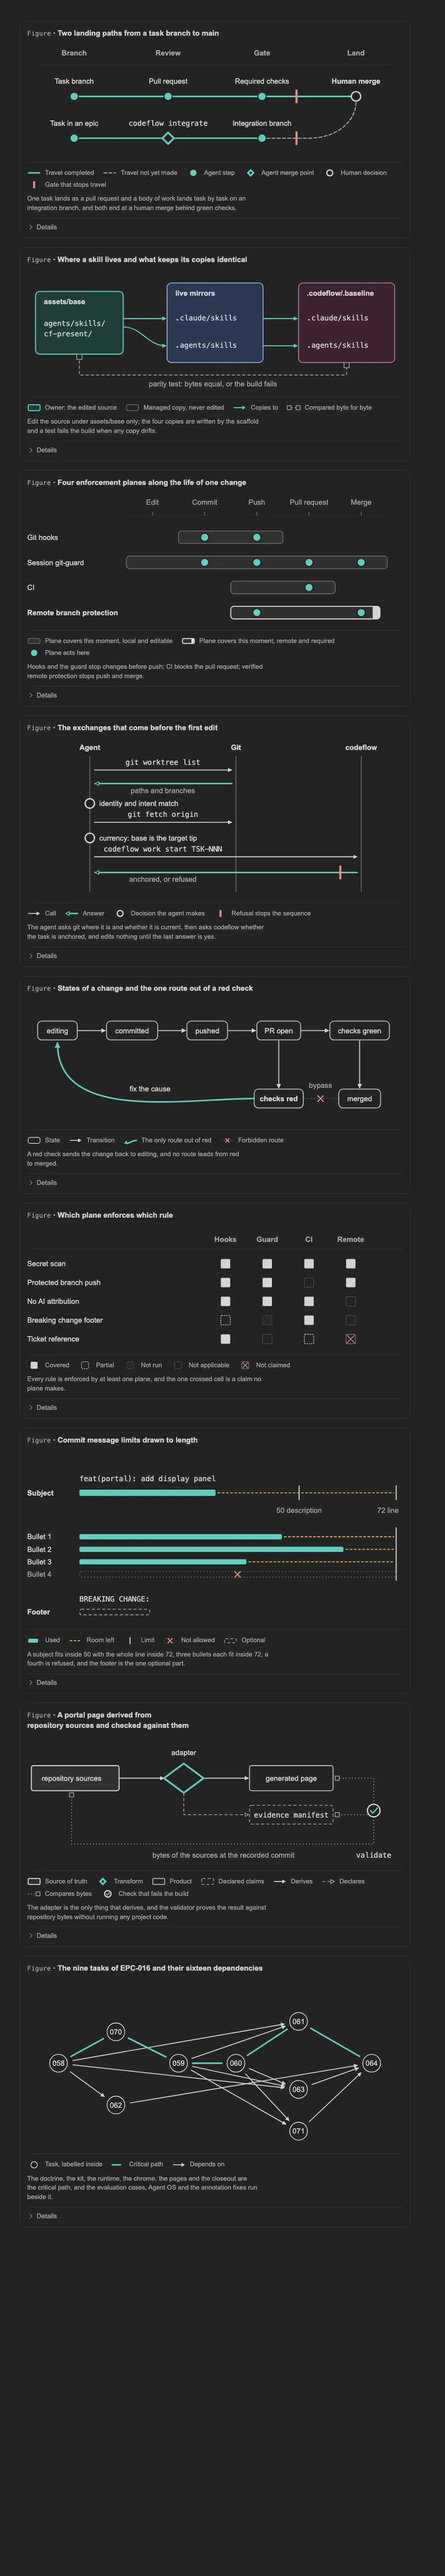
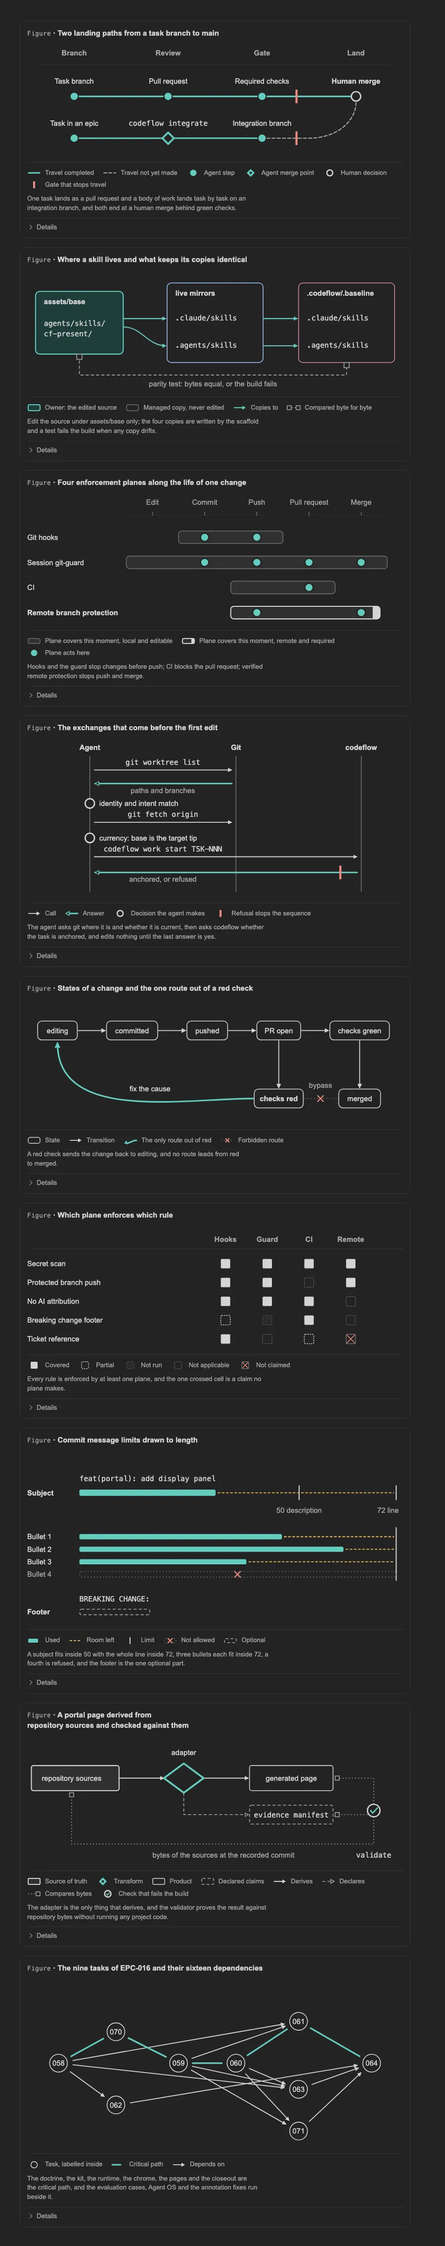
docs(present): keep two channels in the specimen
- copy regions are unfilled outlines again, toned by hue only
- renders recaptured after every figure drew, light and dark

diff --git a/.agents/skills/cf-docs-portal/resources/figure-grammar-specimens.md b/.agents/skills/cf-docs-portal/resources/figure-grammar-specimens.md
@@ -22,8 +22,9 @@ Each specimen follows `figure-grammar.md`, "Composing a figure": its title
 is a name, its caption one sentence stating its claim, and a specimen with
 a governing path draws it in the accent-bearing marks, grey for context. The
 structure specimen also shows the companion tones: the owner region carries
-the accent, and the live and baseline regions, two named peers, carry
-`cat1` and `cat2`.
+the accent on a filled region, and the live and baseline regions, two
+named peers, carry `cat1` and `cat2` on unfilled outlines, so owner and copy
+still differ in fill and in stroke width without their hue.
 
 Each specimen ends with its chat form: the same facts drawn as a fenced
 ASCII figure for plain-text chat and a README, with one legend line and one
@@ -125,7 +126,7 @@ figure:
 <text x="32" y="64" font-weight="600">assets/base</text>
 <text x="32" y="106" font-family="var(--cf-fig-mono)" font-weight="400">agents/skills/</text>
 <text x="32" y="126" font-family="var(--cf-fig-mono)" font-weight="400">cf-present/</text>
-<g data-state="copy" stroke-width="1.5"><rect x="268" y="24" width="184" height="152" rx="8" fill="var(--cf-fig-cat1-soft)" stroke="var(--cf-fig-cat1)"/><rect x="520" y="24" width="184" height="152" rx="8" fill="var(--cf-fig-cat2-soft)" stroke="var(--cf-fig-cat2)"/></g>
+<g data-state="copy" fill="none" stroke-width="1.5"><rect x="268" y="24" width="184" height="152" rx="8" stroke="var(--cf-fig-cat1)"/><rect x="520" y="24" width="184" height="152" rx="8" stroke="var(--cf-fig-cat2)"/></g>
 <text x="284" y="48" font-weight="600">live mirrors</text>
 <text x="536" y="48" font-weight="600">.codeflow/.baseline</text>
 <g font-family="var(--cf-fig-mono)" font-weight="400"><text x="284" y="96">.claude/skills</text><text x="284" y="148">.agents/skills</text><text x="536" y="96">.claude/skills</text><text x="536" y="148">.agents/skills</text></g>

diff --git a/.agents/skills/cf-present/resources/figure-grammar-specimens.md b/.agents/skills/cf-present/resources/figure-grammar-specimens.md
@@ -22,8 +22,9 @@ Each specimen follows `figure-grammar.md`, "Composing a figure": its title
 is a name, its caption one sentence stating its claim, and a specimen with
 a governing path draws it in the accent-bearing marks, grey for context. The
 structure specimen also shows the companion tones: the owner region carries
-the accent, and the live and baseline regions, two named peers, carry
-`cat1` and `cat2`.
+the accent on a filled region, and the live and baseline regions, two
+named peers, carry `cat1` and `cat2` on unfilled outlines, so owner and copy
+still differ in fill and in stroke width without their hue.
 
 Each specimen ends with its chat form: the same facts drawn as a fenced
 ASCII figure for plain-text chat and a README, with one legend line and one
@@ -125,7 +126,7 @@ figure:
 <text x="32" y="64" font-weight="600">assets/base</text>
 <text x="32" y="106" font-family="var(--cf-fig-mono)" font-weight="400">agents/skills/</text>
 <text x="32" y="126" font-family="var(--cf-fig-mono)" font-weight="400">cf-present/</text>
-<g data-state="copy" stroke-width="1.5"><rect x="268" y="24" width="184" height="152" rx="8" fill="var(--cf-fig-cat1-soft)" stroke="var(--cf-fig-cat1)"/><rect x="520" y="24" width="184" height="152" rx="8" fill="var(--cf-fig-cat2-soft)" stroke="var(--cf-fig-cat2)"/></g>
+<g data-state="copy" fill="none" stroke-width="1.5"><rect x="268" y="24" width="184" height="152" rx="8" stroke="var(--cf-fig-cat1)"/><rect x="520" y="24" width="184" height="152" rx="8" stroke="var(--cf-fig-cat2)"/></g>
 <text x="284" y="48" font-weight="600">live mirrors</text>
 <text x="536" y="48" font-weight="600">.codeflow/.baseline</text>
 <g font-family="var(--cf-fig-mono)" font-weight="400"><text x="284" y="96">.claude/skills</text><text x="284" y="148">.agents/skills</text><text x="536" y="96">.claude/skills</text><text x="536" y="148">.agents/skills</text></g>

diff --git a/.claude/skills/cf-docs-portal/resources/figure-grammar-specimens.md b/.claude/skills/cf-docs-portal/resources/figure-grammar-specimens.md
@@ -22,8 +22,9 @@ Each specimen follows `figure-grammar.md`, "Composing a figure": its title
 is a name, its caption one sentence stating its claim, and a specimen with
 a governing path draws it in the accent-bearing marks, grey for context. The
 structure specimen also shows the companion tones: the owner region carries
-the accent, and the live and baseline regions, two named peers, carry
-`cat1` and `cat2`.
+the accent on a filled region, and the live and baseline regions, two
+named peers, carry `cat1` and `cat2` on unfilled outlines, so owner and copy
+still differ in fill and in stroke width without their hue.
 
 Each specimen ends with its chat form: the same facts drawn as a fenced
 ASCII figure for plain-text chat and a README, with one legend line and one
@@ -125,7 +126,7 @@ figure:
 <text x="32" y="64" font-weight="600">assets/base</text>
 <text x="32" y="106" font-family="var(--cf-fig-mono)" font-weight="400">agents/skills/</text>
 <text x="32" y="126" font-family="var(--cf-fig-mono)" font-weight="400">cf-present/</text>
-<g data-state="copy" stroke-width="1.5"><rect x="268" y="24" width="184" height="152" rx="8" fill="var(--cf-fig-cat1-soft)" stroke="var(--cf-fig-cat1)"/><rect x="520" y="24" width="184" height="152" rx="8" fill="var(--cf-fig-cat2-soft)" stroke="var(--cf-fig-cat2)"/></g>
+<g data-state="copy" fill="none" stroke-width="1.5"><rect x="268" y="24" width="184" height="152" rx="8" stroke="var(--cf-fig-cat1)"/><rect x="520" y="24" width="184" height="152" rx="8" stroke="var(--cf-fig-cat2)"/></g>
 <text x="284" y="48" font-weight="600">live mirrors</text>
 <text x="536" y="48" font-weight="600">.codeflow/.baseline</text>
 <g font-family="var(--cf-fig-mono)" font-weight="400"><text x="284" y="96">.claude/skills</text><text x="284" y="148">.agents/skills</text><text x="536" y="96">.claude/skills</text><text x="536" y="148">.agents/skills</text></g>

diff --git a/.claude/skills/cf-present/resources/figure-grammar-specimens.md b/.claude/skills/cf-present/resources/figure-grammar-specimens.md
@@ -22,8 +22,9 @@ Each specimen follows `figure-grammar.md`, "Composing a figure": its title
 is a name, its caption one sentence stating its claim, and a specimen with
 a governing path draws it in the accent-bearing marks, grey for context. The
 structure specimen also shows the companion tones: the owner region carries
-the accent, and the live and baseline regions, two named peers, carry
-`cat1` and `cat2`.
+the accent on a filled region, and the live and baseline regions, two
+named peers, carry `cat1` and `cat2` on unfilled outlines, so owner and copy
+still differ in fill and in stroke width without their hue.
 
 Each specimen ends with its chat form: the same facts drawn as a fenced
 ASCII figure for plain-text chat and a README, with one legend line and one
@@ -125,7 +126,7 @@ figure:
 <text x="32" y="64" font-weight="600">assets/base</text>
 <text x="32" y="106" font-family="var(--cf-fig-mono)" font-weight="400">agents/skills/</text>
 <text x="32" y="126" font-family="var(--cf-fig-mono)" font-weight="400">cf-present/</text>
-<g data-state="copy" stroke-width="1.5"><rect x="268" y="24" width="184" height="152" rx="8" fill="var(--cf-fig-cat1-soft)" stroke="var(--cf-fig-cat1)"/><rect x="520" y="24" width="184" height="152" rx="8" fill="var(--cf-fig-cat2-soft)" stroke="var(--cf-fig-cat2)"/></g>
+<g data-state="copy" fill="none" stroke-width="1.5"><rect x="268" y="24" width="184" height="152" rx="8" stroke="var(--cf-fig-cat1)"/><rect x="520" y="24" width="184" height="152" rx="8" stroke="var(--cf-fig-cat2)"/></g>
 <text x="284" y="48" font-weight="600">live mirrors</text>
 <text x="536" y="48" font-weight="600">.codeflow/.baseline</text>
 <g font-family="var(--cf-fig-mono)" font-weight="400"><text x="284" y="96">.claude/skills</text><text x="284" y="148">.agents/skills</text><text x="536" y="96">.claude/skills</text><text x="536" y="148">.agents/skills</text></g>

diff --git a/.codeflow/.baseline/.agents/skills/cf-docs-portal/resources/figure-grammar-specimens.md b/.codeflow/.baseline/.agents/skills/cf-docs-portal/resources/figure-grammar-specimens.md
@@ -22,8 +22,9 @@ Each specimen follows `figure-grammar.md`, "Composing a figure": its title
 is a name, its caption one sentence stating its claim, and a specimen with
 a governing path draws it in the accent-bearing marks, grey for context. The
 structure specimen also shows the companion tones: the owner region carries
-the accent, and the live and baseline regions, two named peers, carry
-`cat1` and `cat2`.
+the accent on a filled region, and the live and baseline regions, two
+named peers, carry `cat1` and `cat2` on unfilled outlines, so owner and copy
+still differ in fill and in stroke width without their hue.
 
 Each specimen ends with its chat form: the same facts drawn as a fenced
 ASCII figure for plain-text chat and a README, with one legend line and one
@@ -125,7 +126,7 @@ figure:
 <text x="32" y="64" font-weight="600">assets/base</text>
 <text x="32" y="106" font-family="var(--cf-fig-mono)" font-weight="400">agents/skills/</text>
 <text x="32" y="126" font-family="var(--cf-fig-mono)" font-weight="400">cf-present/</text>
-<g data-state="copy" stroke-width="1.5"><rect x="268" y="24" width="184" height="152" rx="8" fill="var(--cf-fig-cat1-soft)" stroke="var(--cf-fig-cat1)"/><rect x="520" y="24" width="184" height="152" rx="8" fill="var(--cf-fig-cat2-soft)" stroke="var(--cf-fig-cat2)"/></g>
+<g data-state="copy" fill="none" stroke-width="1.5"><rect x="268" y="24" width="184" height="152" rx="8" stroke="var(--cf-fig-cat1)"/><rect x="520" y="24" width="184" height="152" rx="8" stroke="var(--cf-fig-cat2)"/></g>
 <text x="284" y="48" font-weight="600">live mirrors</text>
 <text x="536" y="48" font-weight="600">.codeflow/.baseline</text>
 <g font-family="var(--cf-fig-mono)" font-weight="400"><text x="284" y="96">.claude/skills</text><text x="284" y="148">.agents/skills</text><text x="536" y="96">.claude/skills</text><text x="536" y="148">.agents/skills</text></g>

diff --git a/.codeflow/.baseline/.agents/skills/cf-present/resources/figure-grammar-specimens.md b/.codeflow/.baseline/.agents/skills/cf-present/resources/figure-grammar-specimens.md
@@ -22,8 +22,9 @@ Each specimen follows `figure-grammar.md`, "Composing a figure": its title
 is a name, its caption one sentence stating its claim, and a specimen with
 a governing path draws it in the accent-bearing marks, grey for context. The
 structure specimen also shows the companion tones: the owner region carries
-the accent, and the live and baseline regions, two named peers, carry
-`cat1` and `cat2`.
+the accent on a filled region, and the live and baseline regions, two
+named peers, carry `cat1` and `cat2` on unfilled outlines, so owner and copy
+still differ in fill and in stroke width without their hue.
 
 Each specimen ends with its chat form: the same facts drawn as a fenced
 ASCII figure for plain-text chat and a README, with one legend line and one
@@ -125,7 +126,7 @@ figure:
 <text x="32" y="64" font-weight="600">assets/base</text>
 <text x="32" y="106" font-family="var(--cf-fig-mono)" font-weight="400">agents/skills/</text>
 <text x="32" y="126" font-family="var(--cf-fig-mono)" font-weight="400">cf-present/</text>
-<g data-state="copy" stroke-width="1.5"><rect x="268" y="24" width="184" height="152" rx="8" fill="var(--cf-fig-cat1-soft)" stroke="var(--cf-fig-cat1)"/><rect x="520" y="24" width="184" height="152" rx="8" fill="var(--cf-fig-cat2-soft)" stroke="var(--cf-fig-cat2)"/></g>
+<g data-state="copy" fill="none" stroke-width="1.5"><rect x="268" y="24" width="184" height="152" rx="8" stroke="var(--cf-fig-cat1)"/><rect x="520" y="24" width="184" height="152" rx="8" stroke="var(--cf-fig-cat2)"/></g>
 <text x="284" y="48" font-weight="600">live mirrors</text>
 <text x="536" y="48" font-weight="600">.codeflow/.baseline</text>
 <g font-family="var(--cf-fig-mono)" font-weight="400"><text x="284" y="96">.claude/skills</text><text x="284" y="148">.agents/skills</text><text x="536" y="96">.claude/skills</text><text x="536" y="148">.agents/skills</text></g>

diff --git a/.codeflow/.baseline/.claude/skills/cf-docs-portal/resources/figure-grammar-specimens.md b/.codeflow/.baseline/.claude/skills/cf-docs-portal/resources/figure-grammar-specimens.md
@@ -22,8 +22,9 @@ Each specimen follows `figure-grammar.md`, "Composing a figure": its title
 is a name, its caption one sentence stating its claim, and a specimen with
 a governing path draws it in the accent-bearing marks, grey for context. The
 structure specimen also shows the companion tones: the owner region carries
-the accent, and the live and baseline regions, two named peers, carry
-`cat1` and `cat2`.
+the accent on a filled region, and the live and baseline regions, two
+named peers, carry `cat1` and `cat2` on unfilled outlines, so owner and copy
+still differ in fill and in stroke width without their hue.
 
 Each specimen ends with its chat form: the same facts drawn as a fenced
 ASCII figure for plain-text chat and a README, with one legend line and one
@@ -125,7 +126,7 @@ figure:
 <text x="32" y="64" font-weight="600">assets/base</text>
 <text x="32" y="106" font-family="var(--cf-fig-mono)" font-weight="400">agents/skills/</text>
 <text x="32" y="126" font-family="var(--cf-fig-mono)" font-weight="400">cf-present/</text>
-<g data-state="copy" stroke-width="1.5"><rect x="268" y="24" width="184" height="152" rx="8" fill="var(--cf-fig-cat1-soft)" stroke="var(--cf-fig-cat1)"/><rect x="520" y="24" width="184" height="152" rx="8" fill="var(--cf-fig-cat2-soft)" stroke="var(--cf-fig-cat2)"/></g>
+<g data-state="copy" fill="none" stroke-width="1.5"><rect x="268" y="24" width="184" height="152" rx="8" stroke="var(--cf-fig-cat1)"/><rect x="520" y="24" width="184" height="152" rx="8" stroke="var(--cf-fig-cat2)"/></g>
 <text x="284" y="48" font-weight="600">live mirrors</text>
 <text x="536" y="48" font-weight="600">.codeflow/.baseline</text>
 <g font-family="var(--cf-fig-mono)" font-weight="400"><text x="284" y="96">.claude/skills</text><text x="284" y="148">.agents/skills</text><text x="536" y="96">.claude/skills</text><text x="536" y="148">.agents/skills</text></g>

diff --git a/.codeflow/.baseline/.claude/skills/cf-present/resources/figure-grammar-specimens.md b/.codeflow/.baseline/.claude/skills/cf-present/resources/figure-grammar-specimens.md
@@ -22,8 +22,9 @@ Each specimen follows `figure-grammar.md`, "Composing a figure": its title
 is a name, its caption one sentence stating its claim, and a specimen with
 a governing path draws it in the accent-bearing marks, grey for context. The
 structure specimen also shows the companion tones: the owner region carries
-the accent, and the live and baseline regions, two named peers, carry
-`cat1` and `cat2`.
+the accent on a filled region, and the live and baseline regions, two
+named peers, carry `cat1` and `cat2` on unfilled outlines, so owner and copy
+still differ in fill and in stroke width without their hue.
 
 Each specimen ends with its chat form: the same facts drawn as a fenced
 ASCII figure for plain-text chat and a README, with one legend line and one
@@ -125,7 +126,7 @@ figure:
 <text x="32" y="64" font-weight="600">assets/base</text>
 <text x="32" y="106" font-family="var(--cf-fig-mono)" font-weight="400">agents/skills/</text>
 <text x="32" y="126" font-family="var(--cf-fig-mono)" font-weight="400">cf-present/</text>
-<g data-state="copy" stroke-width="1.5"><rect x="268" y="24" width="184" height="152" rx="8" fill="var(--cf-fig-cat1-soft)" stroke="var(--cf-fig-cat1)"/><rect x="520" y="24" width="184" height="152" rx="8" fill="var(--cf-fig-cat2-soft)" stroke="var(--cf-fig-cat2)"/></g>
+<g data-state="copy" fill="none" stroke-width="1.5"><rect x="268" y="24" width="184" height="152" rx="8" stroke="var(--cf-fig-cat1)"/><rect x="520" y="24" width="184" height="152" rx="8" stroke="var(--cf-fig-cat2)"/></g>
 <text x="284" y="48" font-weight="600">live mirrors</text>
 <text x="536" y="48" font-weight="600">.codeflow/.baseline</text>
 <g font-family="var(--cf-fig-mono)" font-weight="400"><text x="284" y="96">.claude/skills</text><text x="284" y="148">.agents/skills</text><text x="536" y="96">.claude/skills</text><text x="536" y="148">.agents/skills</text></g>

diff --git a/assets/base/agents/skills/cf-docs-portal/resources/figure-grammar-specimens.md b/assets/base/agents/skills/cf-docs-portal/resources/figure-grammar-specimens.md
@@ -22,8 +22,9 @@ Each specimen follows `figure-grammar.md`, "Composing a figure": its title
 is a name, its caption one sentence stating its claim, and a specimen with
 a governing path draws it in the accent-bearing marks, grey for context. The
 structure specimen also shows the companion tones: the owner region carries
-the accent, and the live and baseline regions, two named peers, carry
-`cat1` and `cat2`.
+the accent on a filled region, and the live and baseline regions, two
+named peers, carry `cat1` and `cat2` on unfilled outlines, so owner and copy
+still differ in fill and in stroke width without their hue.
 
 Each specimen ends with its chat form: the same facts drawn as a fenced
 ASCII figure for plain-text chat and a README, with one legend line and one
@@ -125,7 +126,7 @@ figure:
 <text x="32" y="64" font-weight="600">assets/base</text>
 <text x="32" y="106" font-family="var(--cf-fig-mono)" font-weight="400">agents/skills/</text>
 <text x="32" y="126" font-family="var(--cf-fig-mono)" font-weight="400">cf-present/</text>
-<g data-state="copy" stroke-width="1.5"><rect x="268" y="24" width="184" height="152" rx="8" fill="var(--cf-fig-cat1-soft)" stroke="var(--cf-fig-cat1)"/><rect x="520" y="24" width="184" height="152" rx="8" fill="var(--cf-fig-cat2-soft)" stroke="var(--cf-fig-cat2)"/></g>
+<g data-state="copy" fill="none" stroke-width="1.5"><rect x="268" y="24" width="184" height="152" rx="8" stroke="var(--cf-fig-cat1)"/><rect x="520" y="24" width="184" height="152" rx="8" stroke="var(--cf-fig-cat2)"/></g>
 <text x="284" y="48" font-weight="600">live mirrors</text>
 <text x="536" y="48" font-weight="600">.codeflow/.baseline</text>
 <g font-family="var(--cf-fig-mono)" font-weight="400"><text x="284" y="96">.claude/skills</text><text x="284" y="148">.agents/skills</text><text x="536" y="96">.claude/skills</text><text x="536" y="148">.agents/skills</text></g>

diff --git a/assets/base/agents/skills/cf-present/resources/figure-grammar-specimens.md b/assets/base/agents/skills/cf-present/resources/figure-grammar-specimens.md
@@ -22,8 +22,9 @@ Each specimen follows `figure-grammar.md`, "Composing a figure": its title
 is a name, its caption one sentence stating its claim, and a specimen with
 a governing path draws it in the accent-bearing marks, grey for context. The
 structure specimen also shows the companion tones: the owner region carries
-the accent, and the live and baseline regions, two named peers, carry
-`cat1` and `cat2`.
+the accent on a filled region, and the live and baseline regions, two
+named peers, carry `cat1` and `cat2` on unfilled outlines, so owner and copy
+still differ in fill and in stroke width without their hue.
 
 Each specimen ends with its chat form: the same facts drawn as a fenced
 ASCII figure for plain-text chat and a README, with one legend line and one
@@ -125,7 +126,7 @@ figure:
 <text x="32" y="64" font-weight="600">assets/base</text>
 <text x="32" y="106" font-family="var(--cf-fig-mono)" font-weight="400">agents/skills/</text>
 <text x="32" y="126" font-family="var(--cf-fig-mono)" font-weight="400">cf-present/</text>
-<g data-state="copy" stroke-width="1.5"><rect x="268" y="24" width="184" height="152" rx="8" fill="var(--cf-fig-cat1-soft)" stroke="var(--cf-fig-cat1)"/><rect x="520" y="24" width="184" height="152" rx="8" fill="var(--cf-fig-cat2-soft)" stroke="var(--cf-fig-cat2)"/></g>
+<g data-state="copy" fill="none" stroke-width="1.5"><rect x="268" y="24" width="184" height="152" rx="8" stroke="var(--cf-fig-cat1)"/><rect x="520" y="24" width="184" height="152" rx="8" stroke="var(--cf-fig-cat2)"/></g>
 <text x="284" y="48" font-weight="600">live mirrors</text>
 <text x="536" y="48" font-weight="600">.codeflow/.baseline</text>
 <g font-family="var(--cf-fig-mono)" font-weight="400"><text x="284" y="96">.claude/skills</text><text x="284" y="148">.agents/skills</text><text x="536" y="96">.claude/skills</text><text x="536" y="148">.agents/skills</text></g>
